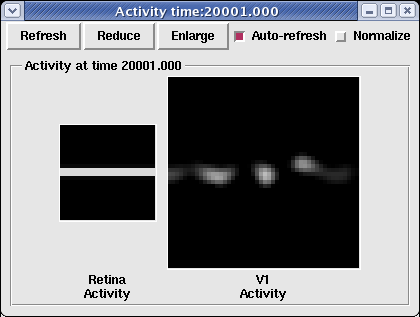
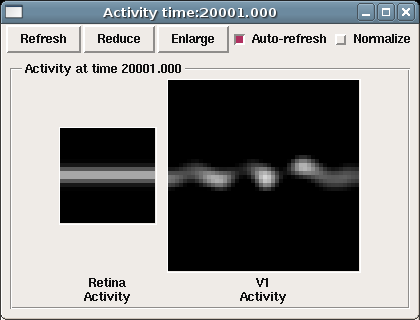
Updated images to use line with a thickness that stops the retina appearing monochrome.

diff --git a/doc/Tutorial/text.php b/doc/Tutorial/text.php
@@ -62,7 +62,7 @@ select <span class='t_item'>Test pattern</span> from the <span class='t_item'>Si
 
 <p class='center'>
 <img src="images/test_pattern.png" alt="Test Pattern window"
-align="middle" width="415" height="603">
+align="middle" width="415" height="606">
 </p>
 
 <p>
@@ -75,7 +75,7 @@ This will present a horizontal line.
 <li>To see the result, select <span class='t_item'>Activity</span> from
 the <span class='t_item'>Plots</span> menu on the <span class='w_title'>Topographica Console</span> to get:
 <p class='center'>
-<img src="images/activity_line.png" alt="Response to a line" align="middle" width="420" height="317">
+<img src="images/activity_line.png" alt="Response to a line" align="middle" width="420" height="320">
 </p>
 
 
@@ -184,8 +184,8 @@ on the <span class='w_title'>Test pattern</span> window and then looking
 at the refreshed image in the <span class='w_title'>Activity</span> window:
 
 <p class="center">
-<img src="images/activity_line_or.png" alt="Color-coded response to a line" width="420" height="317">
-<img src="images/or_key_vert_transparent_topo.png" alt="Orientation key" height="317" width="24">
+<img src="images/activity_line_or.png" alt="Color-coded response to a line" width="420" height="320">
+<img src="images/or_key_vert_transparent_topo.png" alt="Orientation key" height="320" width="24">
 </p><br>
 
 
